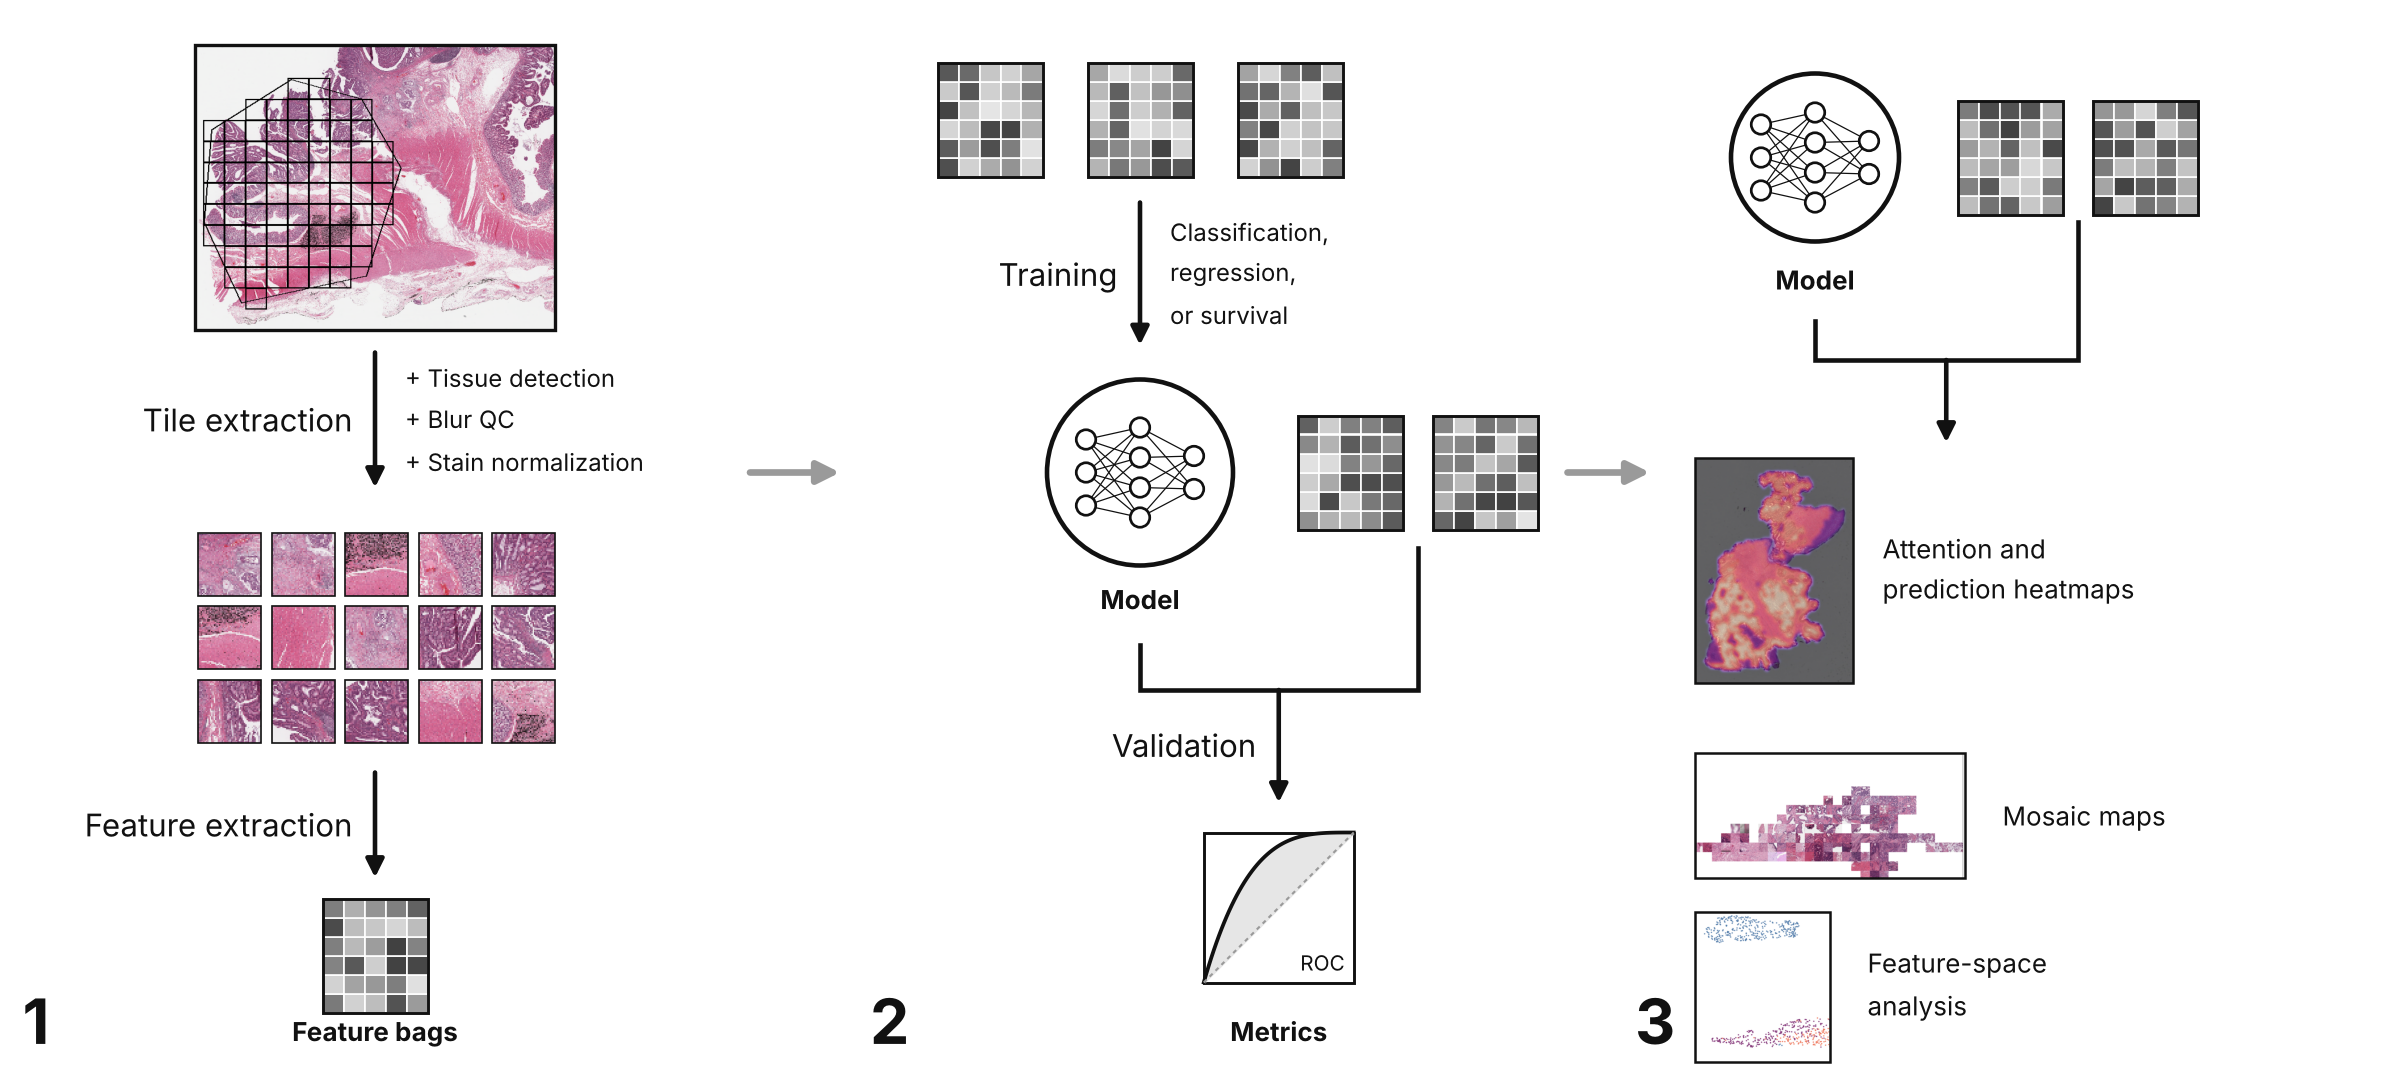
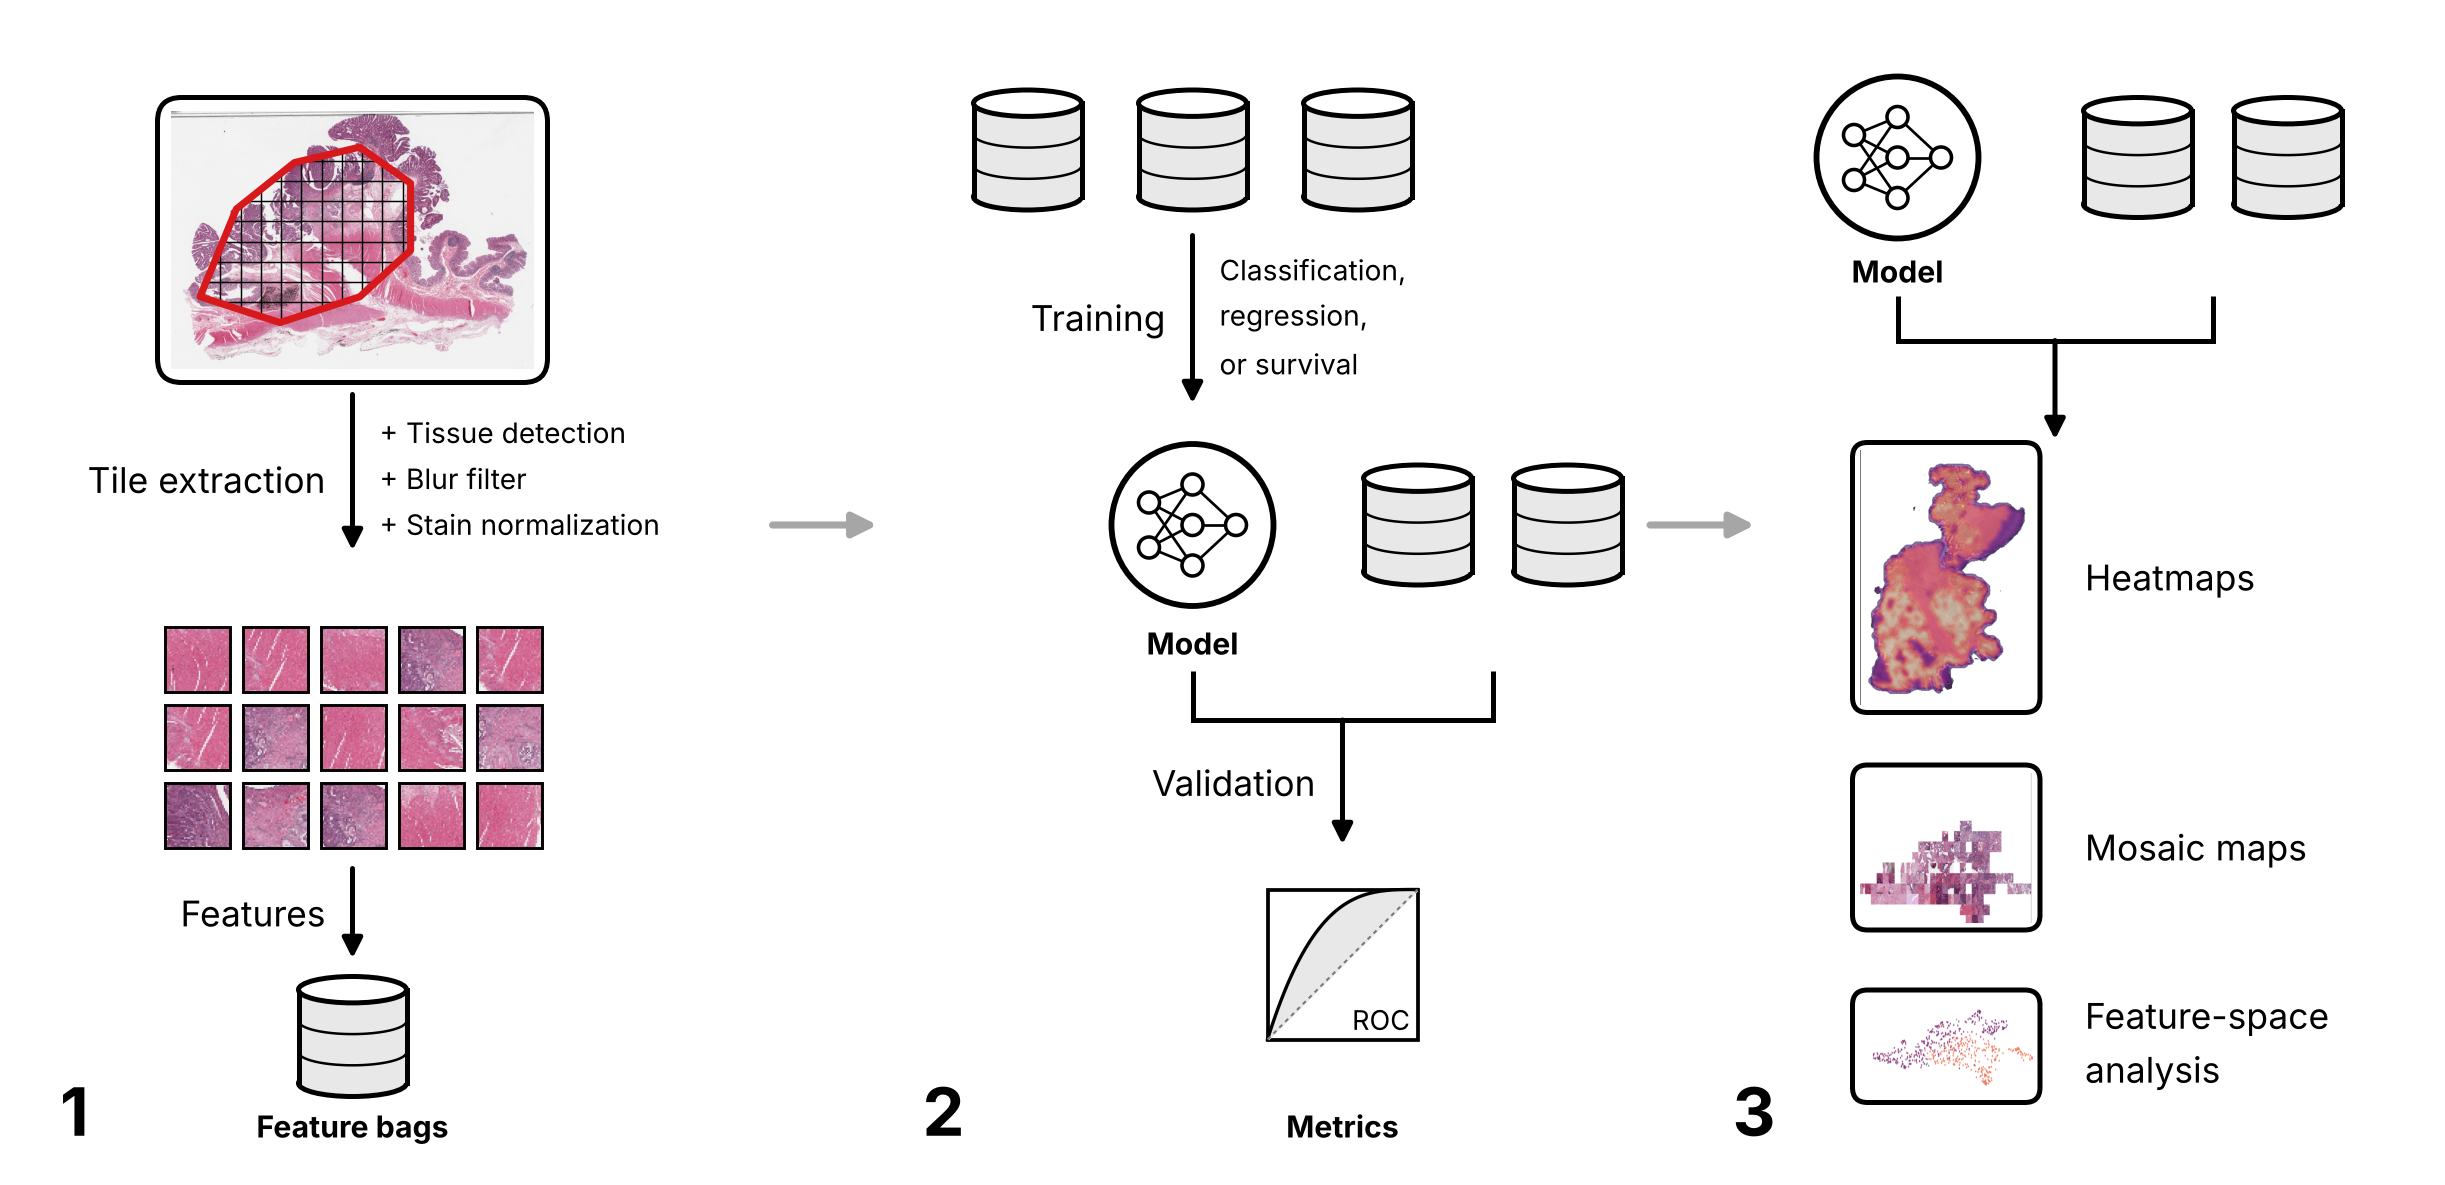
docs: redraw the workflow overview in a cleaner schematic style
Use uniform stroke weights and larger labels, a slide thumbnail with a
drawn ROI and tile grid, cylinder icons for stored features, a compact
network icon for models, and framed real HistoX outputs for heatmaps,
mosaic maps and feature-space analysis.

diff --git a/docs/figures/make_overview.py b/docs/figures/make_overview.py
@@ -1,8 +1,7 @@
 """Draw the HistoX workflow overview figure (docs/source/overview.png).
 
-Line-art schematic in three phases. All embedded images are HistoX outputs
-generated from open-access TCGA slides (see the generation metadata next to
-each source image in docs/source).
+Three-phase line-art schematic. Embedded images are HistoX outputs generated
+from open-access TCGA slides (see the generation metadata in docs/source).
 
 Run from the repository root:  python docs/figures/make_overview.py
 """
@@ -13,7 +12,9 @@ import matplotlib
 matplotlib.use('Agg')
 import matplotlib.pyplot as plt
 from matplotlib import font_manager
-from matplotlib.patches import FancyArrowPatch, Rectangle, Circle, FancyBboxPatch
+from matplotlib.path import Path as MPath
+from matplotlib.patches import (FancyArrowPatch, FancyBboxPatch, Rectangle, Circle,
+                                Ellipse, PathPatch, Polygon)
 from PIL import Image
 
 ROOT = Path(sys.argv[1]) if len(sys.argv) > 1 else Path('.')
@@ -22,129 +23,167 @@ OUT = SRC / 'overview.png'
 
 FONT = 'Inter' if any('Inter' in f.name for f in font_manager.fontManager.ttflist) else 'DejaVu Sans'
 plt.rcParams.update({'font.family': FONT})
-INK, GREY = '#111111', '#9a9a9a'
+INK, ARROW_GREY, FILL, RED = '#000000', '#a6a6a6', '#e8e8e8', '#d7191c'
+LW = 2.4
 
-roi = Image.open(SRC / '_static/slide_processing/tutorial_roi_tiles.png').convert('RGB').crop((20, 150, 600, 610))
-plain = np.asarray(Image.open(SRC / '_static/slide_processing/tutorial_thumbnail.png').convert('RGB'))
-att = Image.open(SRC / '_static/examples/ps3_spatial_attention_tcga_a6_5660.png').convert('RGB').crop((55, 40, 385, 525))
-mosaic = Image.open(SRC / 'mosaic_example.png').convert('RGB')
-mosaic = mosaic.crop((60, 640, 1176, 1150))
-umap = Image.open(SRC / 'umap_example.png').convert('RGB').crop((105, 40, 800, 880))   # points only, no legend
+thumb = Image.open(SRC / '_static/slide_processing/tutorial_thumbnail.png').convert('RGB')
+plain = np.asarray(thumb)
+att = np.asarray(Image.open(SRC / '_static/examples/ps3_spatial_attention_tcga_a6_5660.png')
+                 .convert('RGB').crop((55, 40, 385, 525))).copy()
+_hsv = np.asarray(Image.fromarray(att).convert('HSV'))
+att[_hsv[..., 1] < 40] = 255            # slide background -> white, keep the attention overlay
+mosaic = Image.open(SRC / 'mosaic_example.png').convert('RGB').crop((60, 600, 1176, 1150))
+umap = Image.open(SRC / 'umap_example.png').convert('RGB').crop((105, 560, 1230, 885))   # lower cluster band
 
-fig = plt.figure(figsize=(16, 7.2), dpi=150)
-ax = fig.add_axes([0, 0, 1, 1]); ax.set_xlim(0, 160); ax.set_ylim(0, 72); ax.axis('off')
-
-
-def img(im, x, y, w, h, frame=True, lw=1.2):
-    ax.imshow(im, extent=(x, x + w, y, y + h), aspect='auto', zorder=2)
-    if frame:
-        ax.add_patch(Rectangle((x, y), w, h, fill=False, ec=INK, lw=lw, zorder=3))
+fig = plt.figure(figsize=(16, 7.6), dpi=150)
+ax = fig.add_axes([0, 0, 1, 1]); ax.set_xlim(0, 160); ax.set_ylim(0, 76); ax.set_aspect('equal'); ax.axis('off')
 
 
-def arrow(x0, y0, x1, y1, color=INK, lw=2.2, ms=18):
-    ax.add_patch(FancyArrowPatch((x0, y0), (x1, y1), arrowstyle='-|>', mutation_scale=ms,
-                                 color=color, lw=lw, zorder=4, shrinkA=0, shrinkB=0))
-
-
-def text(x, y, s, size=13, weight='normal', **kw):
+def text(x, y, s, size=17, weight='normal', **kw):
+    kw.setdefault('va', 'center')
     ax.text(x, y, s, fontsize=size, weight=weight, color=INK, **kw)
 
 
-def bag(cx, cy, w=7.0, h=7.6, rows=6):
-    """Feature-bag icon: a matrix whose rows are tile embeddings."""
-    x0, y0 = cx - w / 2, cy - h / 2
-    rng = np.random.default_rng(int(cx * 10 + cy))
-    rh = h / rows
-    for r in range(rows):
-        for c in range(5):
-            shade = 0.25 + 0.65 * rng.random()
-            ax.add_patch(Rectangle((x0 + c * w / 5, y0 + r * rh), w / 5, rh,
-                                   fc=str(shade), ec='white', lw=0.8, zorder=2))
-    ax.add_patch(Rectangle((x0, y0), w, h, fill=False, ec=INK, lw=1.4, zorder=3))
+def arrow(x0, y0, x1, y1, color=INK, lw=LW, ms=20):
+    ax.add_patch(FancyArrowPatch((x0, y0), (x1, y1), arrowstyle='-|>', mutation_scale=ms,
+                                 color=color, lw=lw, shrinkA=0, shrinkB=0, zorder=4))
 
 
-def model(cx, cy, r=6.2):
-    """Model icon: a small fully connected network inside a circle."""
-    ax.add_patch(Circle((cx, cy), r, fill=False, ec=INK, lw=2.2, zorder=3))
-    layers = [[-2.2, 0, 2.2], [-3.0, -1.0, 1.0, 3.0], [-1.1, 1.1]]
-    xs = [cx - 3.6, cx, cx + 3.6]
-    pts = [[(x, cy + dy) for dy in ys] for x, ys in zip(xs, layers)]
-    for a, b in zip(pts[:-1], pts[1:]):
+def framed(im, x, y, w, h, radius=1.2, lw=LW, pad=0.6):
+    """Image inside a rounded frame."""
+    ax.add_patch(FancyBboxPatch((x, y), w, h, boxstyle=f'round,pad=0,rounding_size={radius}',
+                                fc='white', ec='none', zorder=1))
+    ax.imshow(im, extent=(x + pad, x + w - pad, y + pad, y + h - pad), aspect='auto', zorder=2)
+    ax.add_patch(FancyBboxPatch((x, y), w, h, boxstyle=f'round,pad=0,rounding_size={radius}',
+                                fc='none', ec=INK, lw=lw, zorder=3))
+
+
+def store(cx, cy, w=7.2, h=8.0):
+    """Data icon: a cylinder (feature store)."""
+    e = h * 0.22
+    x0, x1, top, bot = cx - w / 2, cx + w / 2, cy + h / 2 - e / 2, cy - h / 2 + e / 2
+    ax.add_patch(Rectangle((x0, bot), w, top - bot, fc=FILL, ec='none', zorder=2))
+    ax.add_patch(Ellipse((cx, bot), w, e, fc=FILL, ec=INK, lw=LW, zorder=2))
+    ax.add_patch(Rectangle((x0, bot), w, top - bot, fc=FILL, ec='none', zorder=2.5))
+    ax.plot([x0, x0], [bot, top], color=INK, lw=LW, zorder=3)
+    ax.plot([x1, x1], [bot, top], color=INK, lw=LW, zorder=3)
+    for yy in (bot + (top - bot) / 3, bot + 2 * (top - bot) / 3):
+        t = np.linspace(np.pi, 2 * np.pi, 40)
+        ax.plot(cx + w / 2 * np.cos(t), yy + e / 2 * np.sin(t), color=INK, lw=1.2, zorder=3)
+    ax.add_patch(Ellipse((cx, top), w, e, fc='white', ec=INK, lw=LW, zorder=3))
+
+
+def model(cx, cy, r=5.4):
+    """Model icon: a compact network in a circle."""
+    ax.add_patch(Circle((cx, cy), r, fc='white', ec=INK, lw=LW + 0.4, zorder=3))
+    left = [(cx - 2.9, cy + 1.5), (cx - 2.9, cy - 1.5)]
+    mid = [(cx, cy + 2.7), (cx, cy), (cx, cy - 2.7)]
+    right = [(cx + 2.9, cy)]
+    for a, b in ((left, mid), (mid, right)):
         for p in a:
             for q in b:
-                ax.plot([p[0], q[0]], [p[1], q[1]], color=INK, lw=0.6, zorder=3)
-    for layer in pts:
-        for (x, y) in layer:
-            ax.add_patch(Circle((x, y), 0.65, fc='white', ec=INK, lw=1.3, zorder=4))
+                ax.plot([p[0], q[0]], [p[1], q[1]], color=INK, lw=1.3, zorder=3)
+    for (x, y) in left + mid + right:
+        ax.add_patch(Circle((x, y), 0.7, fc='white', ec=INK, lw=1.7, zorder=4))
 
 
 def roc(x, y, s=10):
-    ax.add_patch(Rectangle((x, y), s, s, fc='white', ec=INK, lw=1.4, zorder=2))
-    f = np.linspace(0, 1, 60)
-    ax.fill_between(x + s * f, y + s * f, y + s * (1 - (1 - f) ** 3.5), color='#e6e6e6', zorder=2)
-    ax.plot(x + s * f, y + s * (1 - (1 - f) ** 3.5), color=INK, lw=1.8, zorder=3)
-    ax.plot([x, x + s], [y, y + s], color=GREY, lw=1, ls=(0, (2, 2)), zorder=3)
-    text(x + s - 0.6, y + 0.8, 'ROC', size=10, ha='right')
+    ax.add_patch(Rectangle((x, y), s, s, fc='white', ec=INK, lw=LW - 0.6, zorder=2))
+    f = np.linspace(0, 1, 80); curve = 1 - (1 - f) ** 3.2
+    ax.fill_between(x + s * f, y + s * f, y + s * curve, color=FILL, zorder=2)
+    ax.plot(x + s * f, y + s * curve, color=INK, lw=1.6, zorder=3)
+    ax.plot([x, x + s], [y, y + s], color='#7a7a7a', lw=1, ls=(0, (2, 2)), zorder=3)
+    text(x + s - 0.5, y + 1.3, 'ROC', size=13, ha='right')
 
 
-def tiles(x, y, cols, rows, size=4.2, gap=0.7, seed=3):
-    rng = np.random.default_rng(seed); h, w, _ = plain.shape; k = 48; n = 0
+def bracket(xs, y_top, y_bar, x_mid, y_end):
+    for x in xs:
+        ax.plot([x, x], [y_top, y_bar], color=INK, lw=LW, zorder=3, solid_capstyle='butt')
+    ax.plot([min(xs), max(xs)], [y_bar, y_bar], color=INK, lw=LW, zorder=3, solid_capstyle='projecting')
+    arrow(x_mid, y_bar, x_mid, y_end)
+
+
+def slide_with_roi(x, y, w, h):
+    """Slide thumbnail with a hand-drawn ROI and the tile grid inside it."""
+    framed(thumb, x, y, w, h, radius=1.6, pad=0.9)
+    ix0, iy0, iw, ih = x + 0.9, y + 0.9, w - 1.8, h - 1.8
+    # ROI over the mucosa-rich upper-left lobe, in image-fraction coordinates
+    roi = np.array([(0.08, 0.28), (0.18, 0.62), (0.34, 0.80), (0.52, 0.86), (0.66, 0.72),
+                    (0.66, 0.46), (0.52, 0.28), (0.30, 0.18)])
+    pts = np.c_[ix0 + roi[:, 0] * iw, iy0 + roi[:, 1] * ih]
+    poly = Polygon(pts, closed=True, fill=False, ec=RED, lw=3.4, zorder=5, joinstyle='round')
+    ax.add_patch(poly)
+    clip = Polygon(pts, closed=True, transform=ax.transData, fc='none', ec='none')
+    ax.add_patch(clip)
+    step = 1.35
+    for gx in np.arange(pts[:, 0].min(), pts[:, 0].max() + step, step):
+        l, = ax.plot([gx, gx], [pts[:, 1].min(), pts[:, 1].max()], color=INK, lw=0.7, zorder=4)
+        l.set_clip_path(clip)
+    for gy in np.arange(pts[:, 1].min(), pts[:, 1].max() + step, step):
+        l, = ax.plot([pts[:, 0].min(), pts[:, 0].max()], [gy, gy], color=INK, lw=0.7, zorder=4)
+        l.set_clip_path(clip)
+
+
+def tiles(x, y, cols, rows, size=4.3, gap=0.9, seed=5):
+    """Tiles sampled from inside the ROI drawn on the slide thumbnail."""
+    rng = np.random.default_rng(seed); h, w, _ = plain.shape; k = 44; n = 0
     while n < cols * rows:
-        yy, xx = rng.integers(0, h - k), rng.integers(0, w - k)
+        yy = rng.integers(int(0.16 * h), int(0.70 * h) - k)
+        xx = rng.integers(int(0.10 * w), int(0.64 * w) - k)
         c = plain[yy:yy + k, xx:xx + k]
-        if (c.mean(axis=2) < 200).mean() > 0.85:
+        g = c.mean(axis=2)
+        if (g < 195).mean() > 0.92 and (g < 80).mean() < 0.02:   # tissue, no pigment/ink
             r, q = divmod(n, cols)
-            img(c, x + q * (size + gap), y + (rows - 1 - r) * (size + gap), size, size, lw=0.8)
+            x0, y0 = x + q * (size + gap), y + (rows - 1 - r) * (size + gap)
+            ax.imshow(c, extent=(x0, x0 + size, y0, y0 + size), aspect='auto', zorder=2)
+            ax.add_patch(Rectangle((x0, y0), size, size, fill=False, ec=INK, lw=1.4, zorder=3))
             n += 1
 
 
-# ---------------------------------------------------------------- 1. data
-D = 6   # horizontal offset of phase 1
-img(roi, 7 + D, 50, 24, 19, lw=1.6)
-arrow(19 + D, 48.5, 19 + D, 39.5)
-text(17.5 + D, 44, 'Tile extraction', size=15, ha='right', va='center')
-text(21 + D, 44, '+ Tissue detection\n+ Blur QC\n+ Stain normalization', size=11.5, va='center', linespacing=1.45)
-tiles(7.2 + D, 22.5, 5, 3)
-arrow(19 + D, 20.5, 19 + D, 13.5)
-text(17.5 + D, 17, 'Feature extraction', size=15, ha='right', va='center')
-bag(19 + D, 8.3)
-text(19 + D, 2.6, 'Feature bags', size=12.5, weight='bold', ha='center')
+# ------------------------------------------------------------------ phase 1
+slide_with_roi(9, 52, 26, 19)
+arrow(22, 51.2, 22, 40.8)
+text(20.2, 45.5, 'Tile extraction', ha='right')
+text(23.8, 45.6, '+ Tissue detection\n+ Blur filter\n+ Stain normalization', size=13.5, linespacing=1.35)
+tiles(9.5, 21, 5, 3)
+arrow(22, 19.6, 22, 13.6)
+text(20.2, 16.6, 'Features', ha='right')
+store(22, 8.4)
+text(22, 2.4, 'Feature bags', size=14.5, weight='bold', ha='center')
 
-# ---------------------------------------------------------------- 2. model
-for x in (66, 76, 86):
-    bag(x, 64)
-arrow(76, 58.5, 76, 49)
-text(74.5, 53.7, 'Training', size=15, ha='right', va='center')
-text(78, 53.7, 'Classification,\nregression,\nor survival', size=11.5, va='center', linespacing=1.4)
-model(76, 40.5)
-text(76, 31.4, 'Model', size=12.5, weight='bold', ha='center')
-for x in (90, 99):
-    bag(x, 40.5)
-ax.plot([76, 76, 94.5, 94.5], [29, 26, 26, 35.5], color=INK, lw=2.2, zorder=3, solid_joinstyle='miter')
-arrow(85.25, 26, 85.25, 18.5)
-text(83.75, 22.3, 'Validation', size=15, ha='right', va='center')
-roc(80.25, 6.5)
-text(85.25, 2.6, 'Metrics', size=12.5, weight='bold', ha='center')
+# ------------------------------------------------------------------ phase 2
+for x in (67, 78, 89):
+    store(x, 67.5)
+arrow(78, 61.8, 78, 50.6)
+text(76.2, 56.3, 'Training', ha='right')
+text(79.8, 56.3, 'Classification,\nregression,\nor survival', size=13.5, linespacing=1.35)
+model(78, 42.5)
+text(78, 34.6, 'Model', size=14.5, weight='bold', ha='center')
+for x in (93, 103):
+    store(x, 42.5)
+bracket([78, 98], 32.8, 29.5, 88, 21.2)
+text(86.2, 25.3, 'Validation', ha='right')
+roc(83, 8.2)
+text(88, 2.4, 'Metrics', size=14.5, weight='bold', ha='center')
 
-# ---------------------------------------------------------------- 3. evidence
-model(121, 61.5, r=5.6)
-text(121, 52.7, 'Model', size=12.5, weight='bold', ha='center')
-for x in (134, 143):
-    bag(x, 61.5)
-ax.plot([121, 121, 138.5, 138.5], [50.6, 48, 48, 57.2], color=INK, lw=2.2, zorder=3, solid_joinstyle='miter')
-arrow(129.75, 48, 129.75, 42.5)
-img(att, 113, 26.5, 10.5, 15)
-text(125.5, 34, 'Attention and\nprediction heatmaps', size=12.5, va='center', linespacing=1.35)
-img(mosaic, 113, 13.5, 18, 8.3)
-text(133.5, 17.6, 'Mosaic maps', size=12.5, va='center')
-img(umap, 113, 1.2, 9, 10)
-text(124.5, 6.2, 'Feature-space\nanalysis', size=12.5, va='center', linespacing=1.35)
+# ------------------------------------------------------------------ phase 3
+model(125, 67)
+text(125, 59.4, 'Model', size=14.5, weight='bold', ha='center')
+for x in (141, 151):
+    store(x, 67)
+bracket([125, 146], 57.8, 54.8, 135.5, 48.2)
+framed(att, 122, 30, 12.5, 18, radius=1.0, pad=0.5)
+text(137.5, 39, 'Heatmaps')
+framed(mosaic, 122, 15.5, 12.5, 11, radius=1.0, pad=0.5)
+text(137.5, 21, 'Mosaic maps')
+framed(umap, 122, 4, 12.5, 7.5, radius=1.0, pad=0.5)
+text(137.5, 7.75, 'Feature-space\nanalysis', linespacing=1.25)
 
-# ---------------------------------------------------------------- phases
-for x, n in ((1.5, '1'), (58, '2'), (109, '3')):
-    text(x, 1.4, n, size=30, weight='bold', va='bottom')
-arrow(50, 40.5, 56, 40.5, color=GREY, lw=3.2, ms=22)
-arrow(104.5, 40.5, 110, 40.5, color=GREY, lw=3.2, ms=22)
+# ------------------------------------------------------------------ phases
+for x, n in ((2.5, '1'), (60, '2'), (114, '3')):
+    text(x, 3.4, n, size=32, weight='bold')
+arrow(50, 42.5, 57, 42.5, color=ARROW_GREY, lw=3.4, ms=24)
+arrow(108.5, 42.5, 115.5, 42.5, color=ARROW_GREY, lw=3.4, ms=24)
 
-fig.savefig(OUT, dpi=150, facecolor='white')
+fig.savefig(OUT, dpi=150, facecolor='white', bbox_inches='tight', pad_inches=0.15)
 print('wrote', OUT)
